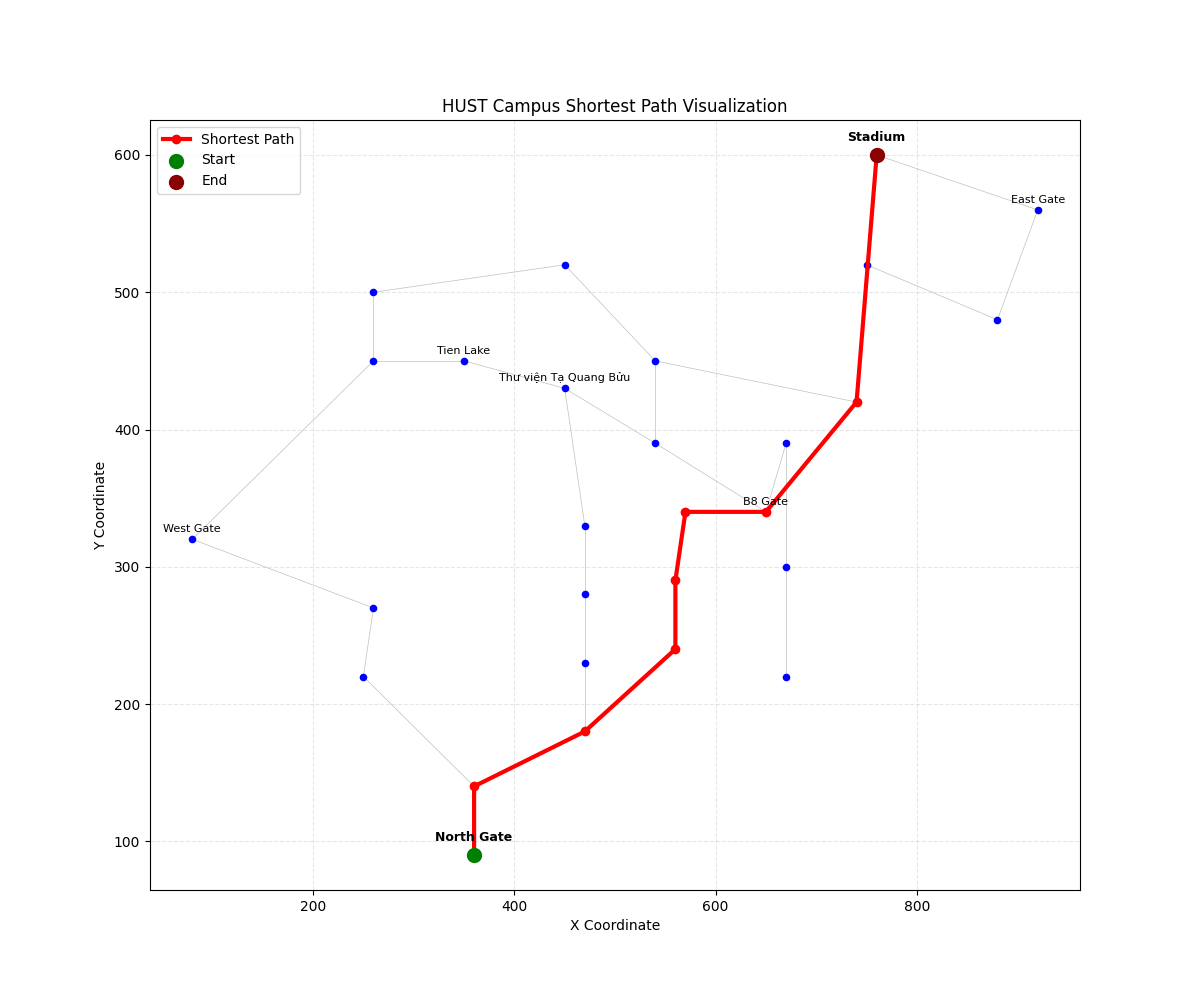
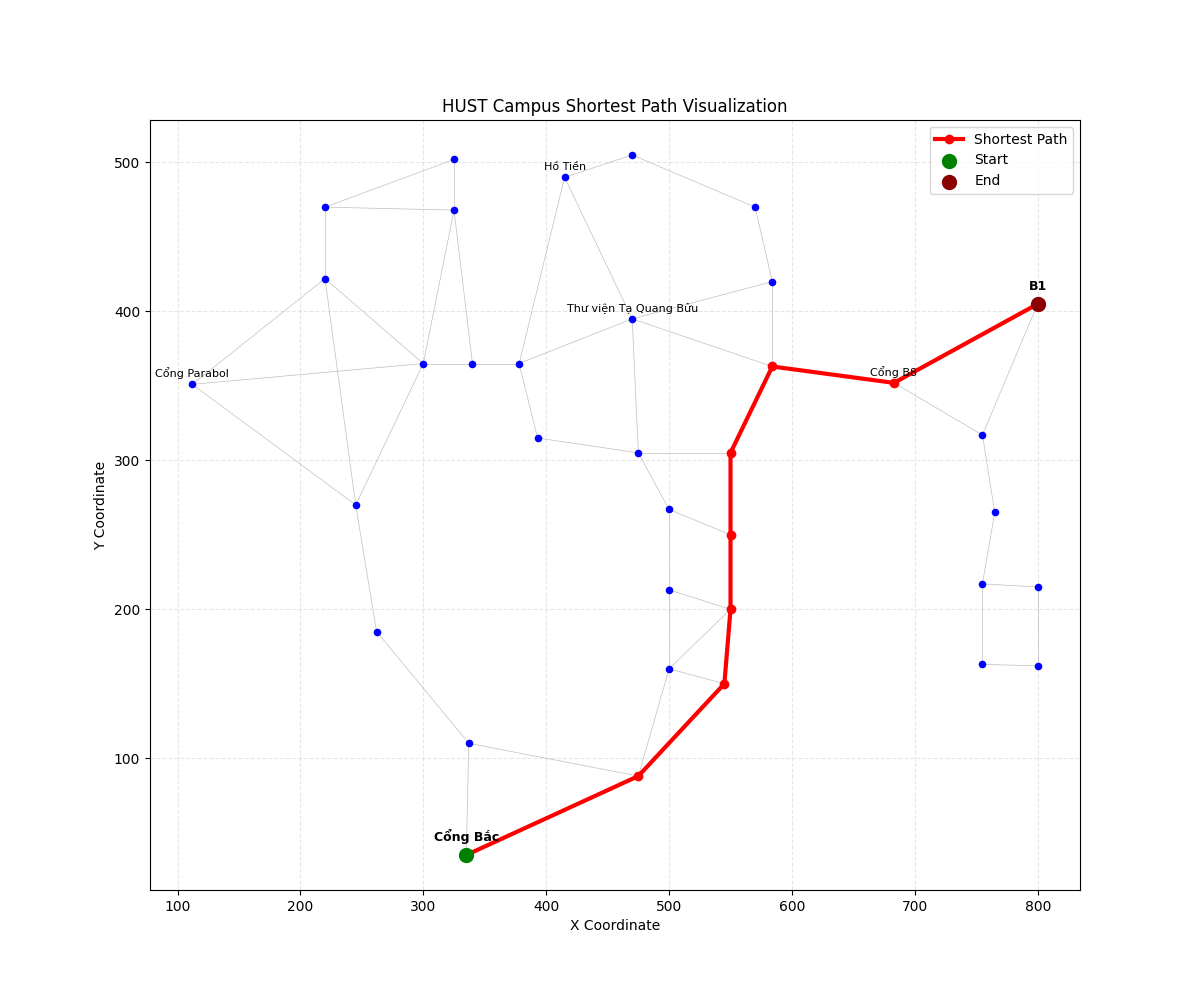
UI Dijsktra hoàn thiện

diff --git a/web/app.py b/web/app.py
@@ -1,6 +1,9 @@
 import os
 import sys
 
+if hasattr(sys.stdout, "reconfigure"):
+    sys.stdout.reconfigure(encoding="utf-8")
+
 from flask import Flask, jsonify, render_template, request, send_from_directory
 
 PROJECT_ROOT = os.path.dirname(os.path.dirname(os.path.abspath(__file__)))

diff --git a/README.md b/README.md
@@ -1,57 +1,120 @@
-# HUST Campus Shortest Path
+# Tìm đường đi ngắn nhất trong khuôn viên HUST
+Chương trình Python tìm đường đi ngắn nhất giữa các tòa nhà, cổng và địa điểm trong khuôn viên Đại học Bách khoa Hà Nội bằng thuật toán Dijkstra. Hỗ trợ cả giao diện dòng lệnh (CLI) và giao diện web tương tác trên bản đồ thật.
 
-A Python application for finding the shortest path between buildings and landmarks on the HUST campus using Dijkstra's algorithm.
+## Tính năng
+- Cài đặt thủ công thuật toán Dijkstra với `heapq` (min-heap).
+- Biểu diễn đồ thị bằng danh sách kề (adjacency list).
+- Tìm kiếm theo mã địa điểm (ví dụ `NORTH_GATE`) hoặc tên hiển thị (ví dụ `Thư viện Tạ Quang Bửu`).
+- Giao diện web kiểu Google Maps: click chọn điểm trên bản đồ thật của trường, hiển thị đường đi.
+- Vẽ đường đi bằng matplotlib và lưu ra file ảnh.
+- Kiểm tra hiệu năng trên cả bản đồ HUST và đồ thị ngẫu nhiên kích thước lớn.
 
-## Features
-- Manual implementation of Dijkstra's algorithm using `heapq`.
-- Adjacency list graph representation.
-- Search by location ID (e.g., `NORTH_GATE`) or Name (e.g., `North Gate`).
-- Performance benchmarking and complexity analysis.
+## Cấu trúc dự án
+```
+hust-campus-shortest-path/
+├── main.py                 # Điểm vào CLI
+├── map-dhbk.jpg            # Ảnh bản đồ HUST dùng cho giao diện web
+├── requirements.txt        # Các thư viện cần cài
+├── src/                    # Mã nguồn lõi
+│   ├── models.py           # Lớp Vertex, DijkstraResult
+│   ├── graph.py            # Cấu trúc đồ thị
+│   ├── dijkstra.py         # Thuật toán Dijkstra
+│   ├── data_io.py          # Đọc/ghi CSV
+│   ├── navigator.py        # Lớp điều phối CampusNavigator
+│   ├── performance.py      # Benchmark
+│   └── visualize.py        # Vẽ đường đi với matplotlib
+├── web/                    # Giao diện web (Flask + Leaflet)
+│   ├── app.py              # Backend Flask
+│   └── templates/index.html# Frontend Leaflet
+├── data/                   # Dữ liệu bản đồ
+│   ├── hust_nodes.csv      # Danh sách địa điểm
+│   └── hust_edges.csv      # Danh sách lối đi giữa các địa điểm
+├── docs/                   # Tài liệu thuật toán và báo cáo
+├── tests/                  # Unit test
+└── output/                 # Nơi lưu kết quả (ảnh, file txt)
+```
 
-## Project Structure
-- `src/`: Core logic (models, graph, dijkstra, data IO).
-- `data/`: CSV files containing nodes and edges for HUST.
-- `docs/`: Algorithm pseudocode, Big-O complexity, and performance reports.
-- `tests/`: Unit tests for the algorithm.
-- `main.py`: CLI entry point.
-
-## Installation
+## Cài đặt
+Yêu cầu Python 3.9 trở lên.
 
 ```bash
 pip install -r requirements.txt
 ```
 
-## Usage
+## Sử dụng
+### 1. Giao diện web (khuyến nghị)
+Khởi động web server:
 
-### 1. List all locations
+```bash
+python web/app.py
+```
+
+Mở trình duyệt tại `http://127.0.0.1:5000` và:
+
+- Click vào một điểm để chọn **điểm bắt đầu** (đổi màu xanh lá).
+- Click điểm thứ hai để chọn **điểm kết thúc** (đổi màu đỏ) — đường đi ngắn nhất tự động vẽ trên bản đồ.
+- Click vào điểm đã chọn để bỏ chọn; nhấn **Reset** để xóa toàn bộ.
+- Bảng bên trái hiển thị tổng khoảng cách, số node trên đường, số node đã duyệt, thời gian chạy và đầy đủ chuỗi đường đi.
+
+### 2. CLI — Liệt kê toàn bộ địa điểm
+
 ```bash
 python main.py --list
 ```
 
-### 2. Find shortest path by ID
+### 3. CLI — Tìm đường theo mã
+
 ```bash
 python main.py --start NORTH_GATE --end TQB_LIBRARY
 ```
 
-### 3. Find shortest path by Name
+### 4. CLI — Tìm đường theo tên
+
 ```bash
-python main.py --start "North Gate" --end "Thư viện Tạ Quang Bửu"
+python main.py --start "Cổng Bắc" --end "Thư viện Tạ Quang Bửu"
 ```
 
-### 4. Run performance benchmark
-On actual HUST map:
+### 5. CLI — Vẽ đường đi ra ảnh PNG
+
+```bash
+python main.py --start NORTH_GATE --end B1 --visualize
+```
+
+Ảnh sẽ được lưu vào `output/hust_shortest_path.png`.
+
+### 6. CLI — Lưu kết quả ra file văn bản
+
+```bash
+python main.py --start NORTH_GATE --end B1 --save output/result.txt
+```
+
+### 7. CLI — Benchmark trên bản đồ HUST thực tế
+
 ```bash
 python main.py --test
 ```
 
-On generated random graphs:
+### 8. CLI — Benchmark trên đồ thị ngẫu nhiên
+
 ```bash
 python main.py --benchmark --nodes 1000 --edges 4000
 ```
 
-## Documentation
-Detailed documentation is available in the `docs/` folder:
-- [Pseudocode](docs/pseudocode.md)
-- [Complexity Analysis](docs/complexity.md)
-- [Data Structures](docs/data_structure_explanation.md)
-- [Performance Test Results](docs/performance_test.md) 
+Có thể tùy chỉnh thêm `--seed`, `--runs` để kiểm soát tính lặp lại và số lần chạy.
+
+## Dữ liệu bản đồ
+
+- `data/hust_nodes.csv`: mỗi dòng mô tả một địa điểm với các cột `id, name, type, x, y, description`. Tọa độ `x, y` là vị trí pixel trên ảnh `map-dhbk.jpg` (904×556 px), trục y tăng từ trên xuống dưới.
+- `data/hust_edges.csv`: mỗi dòng mô tả một lối đi với các cột `from, to, weight, bidirectional`. `weight` là khoảng cách ước lượng theo mét; `bidirectional=1` nghĩa là đi được hai chiều.
+
+Có thể chỉnh sửa hai file CSV để bổ sung địa điểm mới hoặc điều chỉnh sơ đồ kết nối — chương trình sẽ tự động dùng dữ liệu mới ở lần chạy kế tiếp.
+
+## Tài liệu
+
+Thông tin chi tiết về thuật toán và đánh giá hiệu năng nằm trong thư mục `docs/`:
+
+- [Mã giả thuật toán](docs/pseudocode.md)
+- [Phân tích độ phức tạp](docs/complexity.md)
+- [Giải thích cấu trúc dữ liệu](docs/data_structure_explanation.md)
+- [Kết quả kiểm tra hiệu năng](docs/performance_test.md)
+- [Báo cáo kỹ thuật đầy đủ](docs/technical_report_vn.md)
